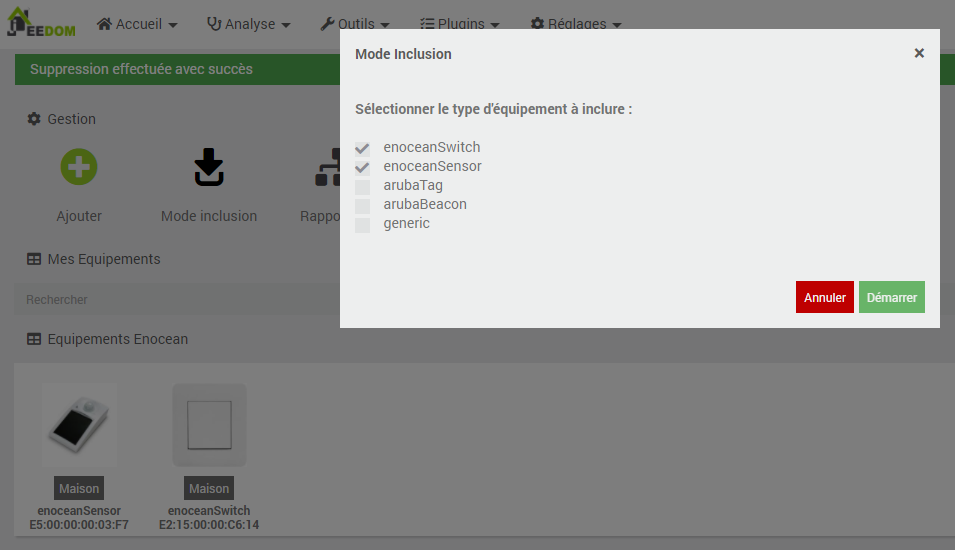
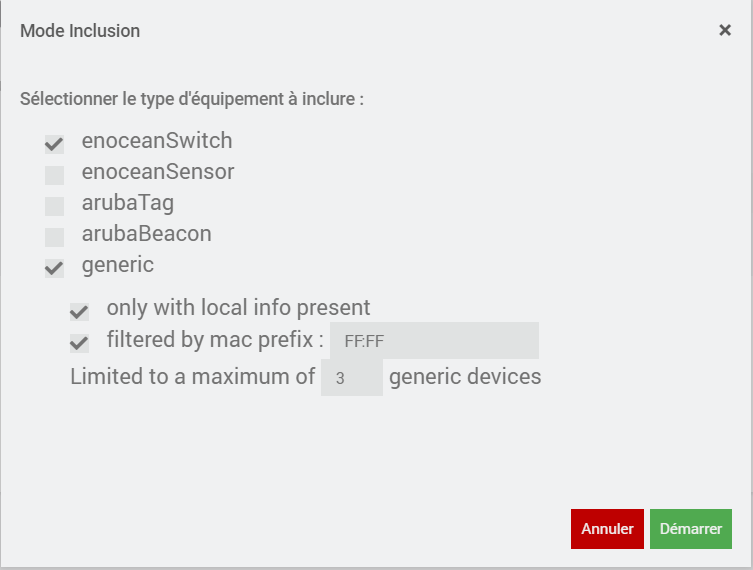
Update documentation

diff --git a/README.md b/README.md
@@ -80,6 +80,10 @@ Reporters List and Status :
 
 ![reporter](docs/images/reporter_list.png)
 
+Reporters Statistics :
+
+![reporter](docs/images/reporter_stats.png)
+
 Devices Visibility
 
 ![device](docs/images/device_visibility.png)
@@ -121,6 +125,10 @@ iot useTransportProfile Test
 ## Change Logs
 
 Release v0.6 (in-dev) :
+- Add statistics for reporters. This might be usefull for knowing bandwidth
+consuption of IOT telemetry between each AP and the websocket.
+- Add filtering option when starting the inclusion mode. This will mainly limit
+ the number of generic BLE devices auto inserted.
 - Add a counter with number of new detected devices while in insertion mode.
 - Adding additional telemetry data as commands (not tested in real life)
 - Code optimisation (easier to add commands in the future)
